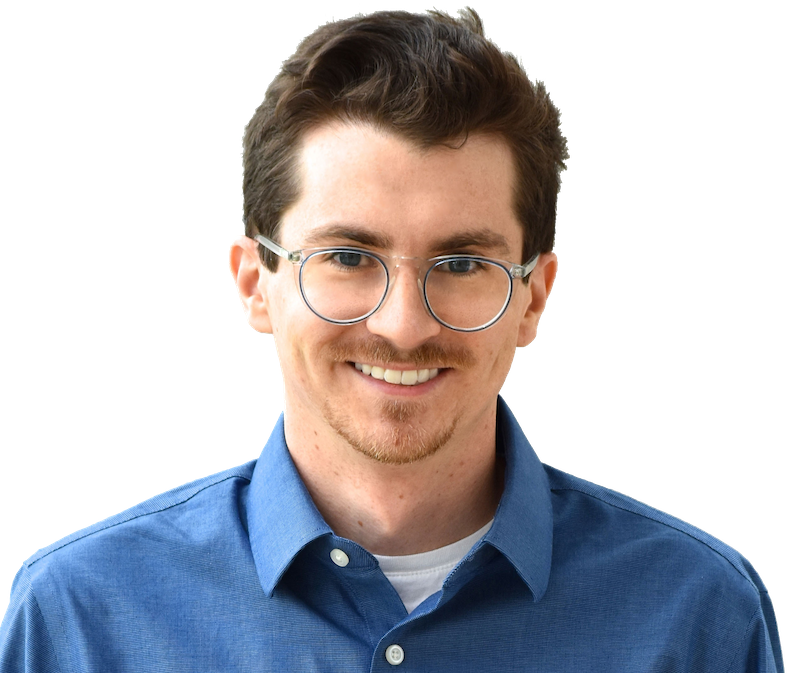
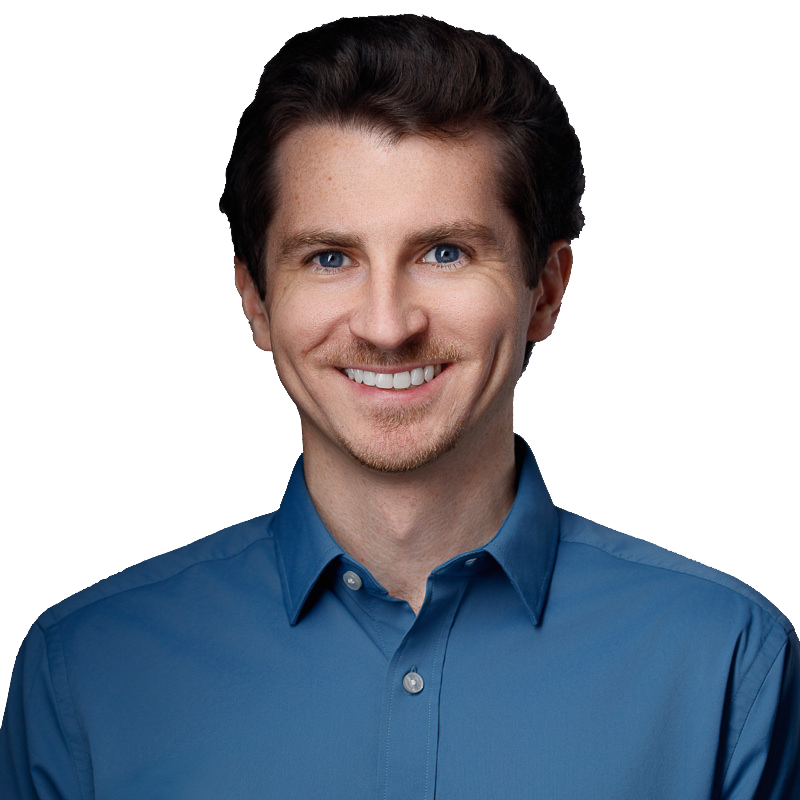
feat: add new headshot to website

diff --git a/_layouts/default.html b/_layouts/default.html
@@ -9,7 +9,7 @@
     <div class="hidden md:flex md:flex-col md:items-center md:pl-4 md:pr-14 md:pt-4">
       <img src="{{ site.url }}{{ site.baseurl }}/content/images/adamliter.png"
            alt="me"
-           class="max-w-full block"
+           class="max-w-full block rounded-full object-cover"
       />
       <br />
       <div class="relative pt-3" @click.outside="open && toggle()" x-data="{
@@ -98,7 +98,7 @@
       <div class="w-5/12">
         <img src="{{ site.url }}{{ site.baseurl }}/content/images/adamliter.png"
              alt="me"
-             class="max-w-full block mx-auto"
+             class="max-w-full block mx-auto rounded-full object-cover"
         />
       </div>
       <div class="w-5/12 flex justify-center">
